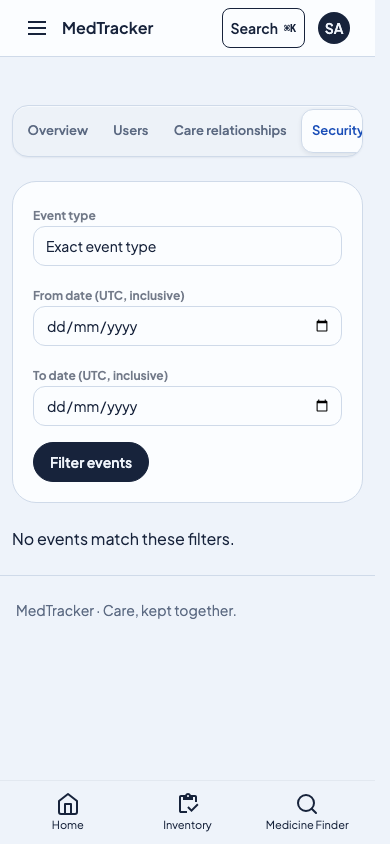
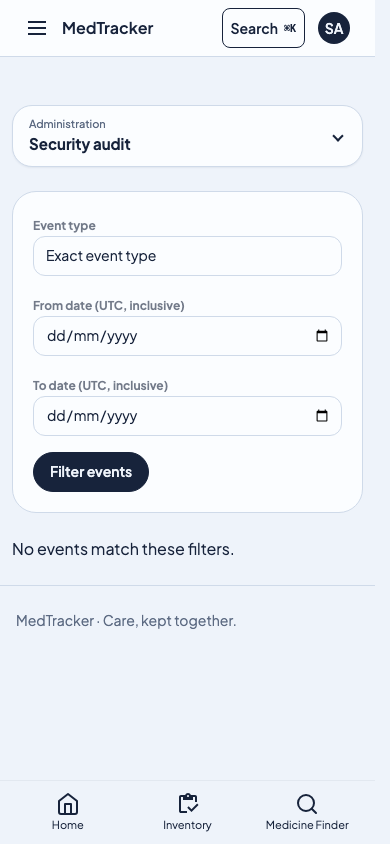
fix: add mobile administration menu

diff --git a/assets/static/js/administration.js b/assets/static/js/administration.js
@@ -11,6 +11,51 @@ export function administrationUrl(value, base, household = base.pathname.match(/
     prefix && (url.pathname === prefix || url.pathname.startsWith(prefix + '/')) ? url : null;
 }
 
+export function mountAdministrationMenu(root) {
+  const navigation = root.querySelector('.admin-navigation');
+  if (!navigation) return;
+  const controller = new AbortController();
+  const details = document.createElement('details');
+  details.className = 'dropdown admin-mobile-navigation';
+  const summary = document.createElement('summary');
+  summary.className = 'btn btn-outline admin-menu-trigger';
+  const label = document.createElement('span');
+  const context = document.createElement('span');
+  context.className = 'admin-menu-context';
+  context.textContent = navigation.dataset.title || 'Administration';
+  const current = document.createElement('span');
+  current.className = 'admin-menu-current';
+  current.textContent = navigation.querySelector('[aria-current=page]')?.textContent.trim() || context.textContent;
+  label.append(context, current);
+  const chevron = document.createElement('span');
+  chevron.className = 'admin-menu-chevron';
+  chevron.setAttribute('aria-hidden', 'true');
+  summary.append(label, chevron);
+  const menu = document.createElement('ul');
+  menu.className = 'menu dropdown-content admin-section-menu';
+  for (const link of navigation.querySelectorAll('a[href]')) {
+    const item = document.createElement('li');
+    const choice = link.cloneNode(true);
+    choice.className = link.hasAttribute('aria-current') ? 'menu-active' : '';
+    item.append(choice);
+    menu.append(item);
+  }
+  details.append(summary, menu);
+  navigation.before(details);
+  navigation.dataset.mobileMenu = 'true';
+  document.addEventListener('pointerdown', event => {
+    if (!details.contains(event.target)) details.open = false;
+  }, { signal: controller.signal });
+  details.addEventListener('keydown', event => {
+    if (event.key === 'Escape' && details.open) {
+      event.preventDefault();
+      details.open = false;
+      summary.focus({ preventScroll: true });
+    }
+  }, { signal: controller.signal });
+  return () => { controller.abort(); details.remove(); delete navigation.dataset.mobileMenu; };
+}
+
 export function mountAdministration() {
   const main = document.querySelector('main');
   if (!main?.querySelector('.admin-navigation')) return;
@@ -28,10 +73,12 @@ export function mountAdministration() {
   let cleanup;
   let sortable;
   const mount = () => {
+    cleanup?.();
     const audit = mountAuditDetail(main, url => location.assign(url));
     const bulk = mountBulkMemberSelection(main);
     const lookup = mountLookupPriority(main);
-    cleanup = () => { audit?.(); bulk?.(); lookup?.(); };
+    const menu = mountAdministrationMenu(main);
+    cleanup = () => { audit?.(); bulk?.(); lookup?.(); menu?.(); };
     main.dataset.adminReady = 'true';
   };
   const prepare = async page => {
@@ -60,6 +107,7 @@ export function mountAdministration() {
       if (!allowed(response.url)) { location.assign(response.url); return; }
       if ([401, 403, 404].includes(response.status)) {
         cleanup?.();
+        cleanup = null;
         main.replaceChildren();
         location.assign(response.url);
         return;
@@ -73,8 +121,9 @@ export function mountAdministration() {
       if (version !== sequence || controller.signal.aborted) return;
       const oldTabs = main.querySelector('.admin-navigation');
       const newTabs = next.querySelector('.admin-navigation');
-      const focused = oldTabs?.contains(document.activeElement);
+      const focused = oldTabs?.contains(document.activeElement) || main.querySelector('.admin-mobile-navigation')?.contains(document.activeElement);
       cleanup?.();
+      cleanup = null;
       main.querySelectorAll('dialog[open]').forEach(dialog => dialog.close());
       if (oldTabs) {
         oldTabs.replaceChildren(...newTabs.childNodes);
@@ -89,7 +138,7 @@ export function mountAdministration() {
       else history.replaceState(history.state, '', response.url);
       currentUrl = response.url;
       mount();
-      if (focused) main.querySelector('.admin-navigation a[aria-current=page]')?.focus({ preventScroll: true });
+      if (focused) (matchMedia('(max-width: 767px)').matches ? main.querySelector('.admin-mobile-navigation summary') : main.querySelector('.admin-navigation a[aria-current=page]'))?.focus({ preventScroll: true });
       else main.focus({ preventScroll: true });
       window.scrollTo(0, 0);
       status.textContent = 'Loaded';
@@ -109,7 +158,7 @@ export function mountAdministration() {
     }
   }
   main.addEventListener('click', event => {
-    const link = event.target.closest('.admin-navigation a[href], nav[aria-label="User scope"] a[href]');
+    const link = event.target.closest('.admin-navigation a[href], .admin-mobile-navigation a[href], nav[aria-label="User scope"] a[href]');
     if (!link || event.defaultPrevented || event.button !== 0 || event.metaKey || event.ctrlKey || event.shiftKey || event.altKey || link.hasAttribute('download') || link.target && link.target !== '_self') return;
     const url = allowed(link.href);
     if (!url) return;
@@ -120,7 +169,7 @@ export function mountAdministration() {
     if (!allowed(location.href)) { location.reload(); return; }
     void navigate(location.href, true);
   });
-  window.addEventListener('pagehide', () => { ++sequence; request?.abort(); cleanup?.(); });
+  window.addEventListener('pagehide', () => { ++sequence; request?.abort(); cleanup?.(); cleanup = null; });
   window.addEventListener('pageshow', event => { if (event.persisted) mount(); });
   void prepare(document).then(mount, mount);
 }

diff --git a/assets/static/css/administration.css b/assets/static/css/administration.css
@@ -4,6 +4,21 @@
 .admin-page > p { color:var(--on-surface-variant); font-size:.875rem; }
 .admin-navigation.section-switcher { display:flex; gap:.15rem; margin-block:1.5rem; overflow-x:auto; padding:.2rem; }
 .admin-navigation .section-switcher-item { flex:1 0 auto; padding-inline:.65rem; white-space:nowrap; }
+.admin-mobile-navigation { display:none; }
+@media(max-width:767px) {
+ .admin-navigation[data-mobile-menu] { display:none; }
+ .admin-mobile-navigation { display:block; position:relative; width:100%; margin-block:1.5rem; }
+ .admin-menu-trigger { display:flex; justify-content:space-between; width:100%; height:auto; min-height:3.75rem; padding:.65rem 1rem; border:1px solid var(--border-color); border-radius:1rem; background:var(--surface-container-lowest); text-align:left; box-shadow:var(--elevation-1); }
+ .admin-menu-trigger::marker, .admin-menu-trigger::-webkit-details-marker { display:none; content:""; }
+ .admin-menu-context { display:block; font-size:.6875rem; line-height:1.5; font-weight:500; color:var(--on-surface-variant); }
+ .admin-menu-current { display:block; font-size:.9375rem; line-height:1.5; font-weight:650; color:var(--foreground); }
+ .admin-menu-chevron { width:.5rem; height:.5rem; border-right:2px solid currentColor; border-bottom:2px solid currentColor; transform:rotate(45deg); margin-inline:.25rem; }
+ .admin-mobile-navigation[open] .admin-menu-chevron { transform:rotate(225deg); }
+ .admin-section-menu { position:absolute; inset:calc(100% + .5rem) 0 auto; z-index:30; width:100%; max-height:min(28rem,calc(100dvh - 12rem)); overflow-y:auto; padding:.5rem; border:1px solid var(--border-color); border-radius:1rem; background:var(--surface-container-lowest); color:var(--foreground); box-shadow:var(--elevation-3); }
+ .admin-section-menu li > a { min-height:2.75rem; padding:.65rem .875rem; font-size:.875rem; }
+ .admin-section-menu a[aria-current=page] { background:var(--surface-container); color:var(--primary); font-weight:700; }
+ .admin-section-menu a[aria-current=page]::after { content:"✓"; margin-inline-start:auto; }
+}
 .admin-attention { display:flex; justify-content:space-between; align-items:center; flex-wrap:wrap; gap:1rem; border:1px solid var(--border-color); border-left:3px solid var(--warning); border-radius:1rem; background:var(--card); padding:1rem 1.25rem; margin-block:1.25rem; }
 .admin-attention h2 { font-size:.875rem; font-weight:750; }
 .admin-attention p { font-size:.8125rem; color:var(--on-surface-variant); margin-top:.25rem; }

diff --git a/assets/views/administration/navigation.html b/assets/views/administration/navigation.html
@@ -4,7 +4,7 @@
 {% set admin_slug = slug | default(value="") %}
 {% if shell and admin_slug == "" %}{% set admin_slug = shell.slug %}{% endif %}
 {% set lang_link = language_suffix | default(value="") %}
-<nav aria-label="Administration sections" class="admin-navigation section-switcher">
+<nav aria-label="Administration sections" class="admin-navigation section-switcher" data-title="{% if labels and labels.layouts and labels.layouts.sidebar %}{{ labels.layouts.sidebar.administration }}{% else %}Administration{% endif %}">
   <a class="section-switcher-item" href="{% if household_tools %}/households/{{ admin_slug }}/admin{{ lang_link }}{% else %}/administration{% endif %}" {% if admin_section == 'overview' %}aria-current="page"{% endif %}>{% if labels and labels.administration and labels.administration.nav %}{{ labels.administration.nav.overview }}{% else %}Overview{% endif %}</a>
   <a class="section-switcher-item" href="{% if members_navigation_url %}{{ members_navigation_url }}{% elif household_tools %}/households/{{ admin_slug }}/admin/users{{ lang_link }}{% else %}/administration/users{% endif %}" {% if admin_section == 'users' %}aria-current="page"{% endif %}>Users</a>
   {% if household_tools %}

diff --git a/tests/browser/administration_polish.rs b/tests/browser/administration_polish.rs
@@ -33,6 +33,13 @@ async fn administration_tabs_system_controls_and_read_recovery() {
         page.locator(".admin-navigation a[href='/administration/support']").click(None).await.unwrap();
         expect(page.locator(".admin-navigation a[aria-current=page]")).to_contain_text("Support access").await.unwrap();
         assert!(page.evaluate::<(), bool>("() => window.adminDocument === document", None).await.unwrap());
+        page.set_viewport_size(Viewport { width: 390, height: 844 }).await.unwrap();
+        page.locator(".admin-mobile-navigation summary").click(None).await.unwrap();
+        assert_eq!(page.locator(".admin-mobile-navigation a").count().await.unwrap(), 8);
+        capture(page, "mobile-system-menu-open").await;
+        page.locator(".admin-mobile-navigation a[href='/administration/nhs-dmd']").click(None).await.unwrap();
+        expect(page.locator(".admin-mobile-navigation summary")).to_contain_text("NHS dm+d").await.unwrap();
+        capture(page, "mobile-dmd-selected").await;
     })).await;
 }
 
@@ -44,10 +51,17 @@ async fn administration_tabs_retain_document_and_history() {
         let page = &journey.page;
         page.goto(&format!("{}/households/persistence-fixture/admin", journey.origin), None).await.unwrap();
         page.evaluate::<(), bool>("() => { window.adminDocument = document; window.adminSidebar = document.querySelector('.app-sidebar'); return true; }", None).await.unwrap();
-        page.locator(".admin-navigation a[href*='/admin/users']").click(None).await.unwrap();
+        page.locator(".admin-mobile-navigation summary").click(None).await.unwrap();
+        capture(page, "mobile-section-menu-open").await;
+        page.locator(".admin-mobile-navigation a[href*='/admin/users']").click(None).await.unwrap();
         expect(page.locator("#member-search")).to_be_visible().await.unwrap();
         assert!(page.evaluate::<(), bool>("() => window.adminDocument === document && window.adminSidebar === document.querySelector('.app-sidebar')", None).await.unwrap());
-        page.locator(".admin-navigation a[href*='/admin/audit_logs']").click(None).await.unwrap();
+        expect(page.locator(".admin-mobile-navigation summary")).to_contain_text("Users").await.unwrap();
+        page.locator(".admin-mobile-navigation summary").click(None).await.unwrap();
+        page.keyboard().press("Escape", None).await.unwrap();
+        expect(page.locator(".admin-mobile-navigation summary")).to_be_focused().await.unwrap();
+        page.locator(".admin-mobile-navigation summary").click(None).await.unwrap();
+        page.locator(".admin-mobile-navigation a[href*='/admin/audit_logs']").click(None).await.unwrap();
         expect(page.locator("#audit-filter-form")).to_be_visible().await.unwrap();
         page.evaluate::<(), bool>("() => { history.back(); return true; }", None).await.unwrap();
         expect(page.locator("#member-search")).to_be_visible().await.unwrap();
@@ -160,8 +174,8 @@ async fn administration_polish_overview_and_forms() {
         expect(page.get_by_role(AriaRole::Heading, named("Synthetic renamed household"))).to_be_visible().await.unwrap();
         page.goto(&format!("{}/households/persistence-fixture/admin/audit_logs?event_type=nonexistent",journey.origin),None).await.unwrap();
         expect(page.locator("body[data-navigation-ready]")).to_be_visible().await.unwrap();
-        expect(page.locator("main li")).to_contain_text("No events match these filters.").await.unwrap();
-        page.evaluate::<(),bool>("() => { document.querySelector('main li').scrollIntoView({block:'center'}); return true; }",None).await.unwrap();
+        expect(page.locator("[aria-label='Audit events'] li")).to_contain_text("No events match these filters.").await.unwrap();
+        page.evaluate::<(),bool>("() => { document.querySelector('[aria-label=\"Audit events\"] li').scrollIntoView({block:'center'}); return true; }",None).await.unwrap();
         capture(page,"audit-empty-320").await;
     })).await;
 }
@@ -186,7 +200,7 @@ async fn administration_polish_platform_frames() {
                 page.locator("[data-source='curated_catalog'] .lookup-drag-handle").drag_to(&page.locator("[data-source='imported_catalog'] .lookup-drag-handle"), None).await.unwrap();
                 expect(page.locator("#medicine-lookup-source-priority")).to_have_value("curated_catalog,imported_catalog,local_nhs_dmd,cached_open_products_facts").await.unwrap();
             }
-            expect(page.locator(".admin-navigation")).to_be_visible().await.unwrap();
+            expect(page.locator(".admin-navigation:visible, .admin-mobile-navigation summary:visible")).to_be_visible().await.unwrap();
             for width in [1440,390,320] {
                 page.set_viewport_size(Viewport {width,height:if width==1440 {1000}else{844}}).await.unwrap();
                 capture(page,&format!("{label}-{width}")).await;

diff --git a/tests/browser/shared_layout.rs b/tests/browser/shared_layout.rs
@@ -581,12 +581,14 @@ async fn shared_layout_system_administration_and_profile_work_without_a_househol
                 page.goto(&format!("{}/administration/nhs-dmd", journey.origin), None)
                     .await
                     .unwrap();
-                expect(page.locator(
-                    ".admin-navigation a[href='/administration/nhs-dmd'][aria-current=page]",
-                ))
+                expect(page.locator(".admin-mobile-navigation summary"))
                 .to_be_visible()
                 .await
                 .unwrap();
+                expect(page.locator(".admin-mobile-navigation summary"))
+                    .to_contain_text("NHS dm+d")
+                    .await
+                    .unwrap();
                 assert_eq!(page.locator(".app-sidebar").count().await.unwrap(), 0);
                 expect(page.get_by_role(AriaRole::Link, named("Profile")))
                     .to_be_visible()
